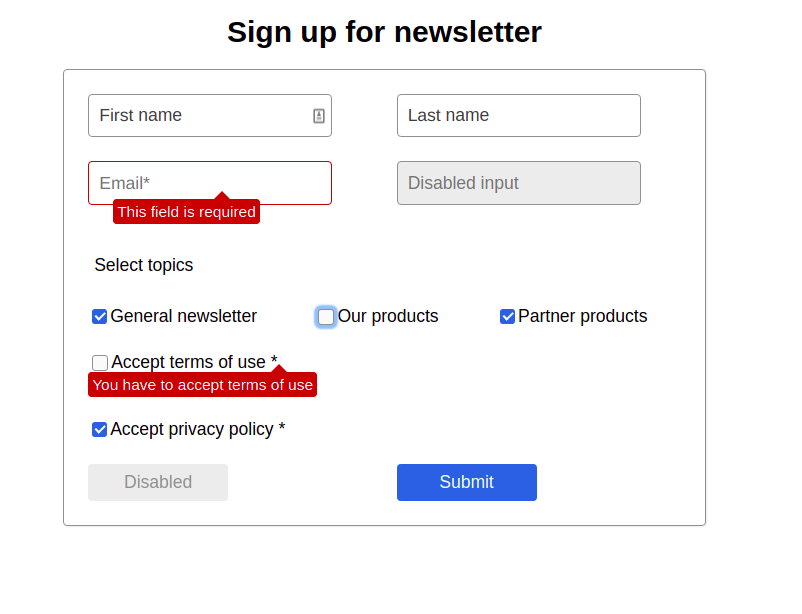
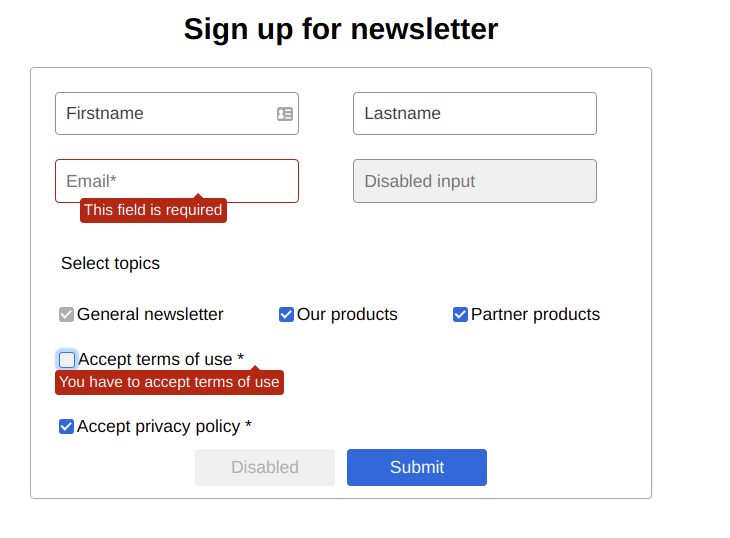
Small fixes

diff --git a/src/components/Checkbox/Checkbox.scss b/src/components/Checkbox/Checkbox.scss
@@ -1,50 +1,54 @@
 @import "../common.scss";
 
 [type="checkbox"] {
-    appearance: none;
-    -moz-appearance: none;
-    -webkit-appearance: none;
-    background-color: #fafafa;
-    border: 1.5px solid $darkGray;
-    padding: 6.5px;
-    border-radius: 3px;
-    display: inline-block;
-    position: relative;
-  }
-  
-  [type="checkbox"]:checked {
-    background-color: $blue;
-    border: none;
-    color: #99a1a7;
-    padding: 7.5px;
-  }
-  
-  [type="checkbox"]:checked:active {
-    background-color: $navyBlue;
-  }
-  
-  [type="checkbox"]:hover {
-    opacity: 90%;
-    cursor: pointer;
-  }
-  
-  [type="checkbox"]:not(:checked):hover {
-    background-color: $lightGray;
-    border-color: $blue;
-  }
-  
-  [type="checkbox"]:checked:after {
-    content: "";
-    font-size: 14px;
-    position: absolute;
-    top: 0px;
-    left: 3px;
-    color: #99a1a7;
-    display: inline-block;
-    transform: rotate(45deg);
-    margin: 10% 10%;
-    height: 8px;
-    width: 4px;
-    border-bottom: 0.12rem solid $white;
-    border-right: 0.12rem solid $white;
-  }
+  appearance: none;
+  -moz-appearance: none;
+  -webkit-appearance: none;
+  background-color: #fafafa;
+  border: 1.5px solid $darkGray;
+  padding: 6.5px;
+  border-radius: 3px;
+  display: inline-block;
+  position: relative;
+}
+
+[type="checkbox"]:checked {
+  background-color: $blue;
+  border: none;
+  color: #99a1a7;
+  padding: 7.5px;
+}
+
+[type="checkbox"]:checked:active {
+  background-color: $navyBlue;
+}
+
+[type="checkbox"]:hover {
+  opacity: 90%;
+  cursor: pointer;
+}
+
+[type="checkbox"]:not(:checked):hover {
+  background-color: $lightGray;
+  border-color: $blue;
+}
+
+[type="checkbox"]:checked:after {
+  content: "";
+  font-size: 14px;
+  position: absolute;
+  top: 0px;
+  left: 3px;
+  color: #99a1a7;
+  display: inline-block;
+  transform: rotate(45deg);
+  margin: 10% 10%;
+  height: 8px;
+  width: 4px;
+  border-bottom: 0.12rem solid $white;
+  border-right: 0.12rem solid $white;
+}
+
+[type="checkbox"]:disabled {
+  background-color: $darkGray;
+}

diff --git a/src/components/Snackbar/Snackbar.js b/src/components/Snackbar/Snackbar.js
@@ -6,27 +6,27 @@ const Snackbar = ({ type, message, setNotification }) => {
   switch (type) {
     case "error":
       messageStyle = {
-        border: "1px solid #8c161a",
-        backgroundColor: "#fdf2f2",
+        border: "1px solid #bf0100",
+        backgroundColor: "#fff3f2",
       };
       break;
-    case "info":
+    case "success":
+      messageStyle = {
+        border: "1px solid #129939",
+        backgroundColor: "#e9fff0",
+      };
+      break;
+    default:
       messageStyle = {
         border: "1px solid #3b86d1",
         backgroundColor: "#e6f2ff",
       };
       break;
-    default:
-      messageStyle = {
-        border: "1px solid #129939",
-        backgroundColor: "#dcf7e2",
-      };
-      break;
   }
 
   const handleClose = () => {
-    setNotification(null)
-  }
+    setNotification(null);
+  };
 
   return (
     <div style={messageStyle} className="snackbar">

diff --git a/src/components/Snackbar/Snackbar.scss b/src/components/Snackbar/Snackbar.scss
@@ -2,13 +2,24 @@
 
 $closebuttonSize: 20px;
 
+.snackbar {
+  width: 50vw;
+  position: fixed;
+  bottom: 20px;
+  padding: 1.2rem;
+  border-radius: 5px;
+  border-left-width: 4px !important;
+  font-size: 0.875rem;
+  box-shadow: 0 0 8px 4px #f0f0f050;
+}
+
 .close-btn {
   cursor: pointer;
   width: $closebuttonSize;
   height: $closebuttonSize;
   background-color: transparent;
   position: absolute;
-  top: 0.575rem;
+  top: 0.475rem;
   right: 0.875rem;
   border-radius: 6px;
   margin-left: auto;
@@ -45,14 +56,4 @@ $closebuttonSize: 20px;
   -moz-transform: rotate(-45deg);
   transform: rotate(-45deg);
   right: 0.05 * $closebuttonSize;
-}
-
-.snackbar {
-  width: 50vw;
-  position: fixed;
-  bottom: 20px;
-  padding: 1rem;
-  border-radius: 5px;
-  border-left-width: 4px !important;
-  font-size: 0.875rem;
 }

diff --git a/src/components/common.scss b/src/components/common.scss
@@ -1,10 +1,10 @@
-$red: #b70808;
+$red: #bf0100;
 $white: #fafafa;
-$blue: #2579e2;
-$lightBlue: #98c6fa;
-$navyBlue: #093799;
-$lightGray: #ececec;
-$darkGray: #909090;
+$blue: #006fdd;
+$lightBlue: #aed6ff;
+$navyBlue: #0055aa;
+$lightGray: #f0f0f0;
+$darkGray: #aeaeae;
 $darkerGray: #646464;
 $spacing: 6px;
 $fieldPadding: 4px;
@@ -19,6 +19,12 @@ $breakpointDesktop: 1280px;
   position: relative;
   margin: 12px;
   margin-right: auto;
+}
+
+@media (max-width: $breakpointMobile) {
+  .field-container {
+    width: 100%;
+  }
 }
 
 .label-wrapper {
@@ -47,9 +53,9 @@ input:focus {
   position: absolute;
   width: 0;
   height: 0;
-  bottom: 70%;
+  bottom: 100%;
   right: 1.5em;
-  border: 0.75rem solid transparent;
+  border: 0.25rem solid transparent;
   border-top: none;
   border-bottom-color: $red;
 }

diff --git a/src/App.js b/src/App.js
@@ -10,7 +10,7 @@ function App() {
   const { register, handleSubmit, errors } = useForm();
   const [notification, setNotification] = useState({
     type: "info",
-    message: "Please fill all fields and submit the form",
+    message: "Please fill in all fields and submit the form",
   });
 
   const topics = ["General newsletter", "Our products", "Partner products"];
@@ -85,8 +85,8 @@ function App() {
           />
           <TextField
             disabled
-            placeholder="Disabled input"      
-            label="Disabled input"  
+            placeholder="Disabled input"
+            label="Disabled input"
           />
         </div>
         <div className="topics">

diff --git a/src/components/Button/Button.js b/src/components/Button/Button.js
@@ -3,7 +3,7 @@ import "./Button.scss";
 
 const Button = ({ type = "button", disabled, text }) => {
   return (
-    <div className="field-container">
+    
       <button
         aria-disabled={disabled}
         className="button"
@@ -12,7 +12,7 @@ const Button = ({ type = "button", disabled, text }) => {
       >
         {text}
       </button>
-    </div>
+   
   );
 };
 

diff --git a/src/components/Checkbox/Checkbox.js b/src/components/Checkbox/Checkbox.js
@@ -7,7 +7,7 @@ const Checkbox = ({ label, error, name, id, inputRef, required, ...props }) => {
       <div className="label-wrapper">
         <input
           aria-label={label}
-          aria-required={true}
+          aria-required={required}
           id={id}
           name={name}
           type="checkbox"

diff --git a/src/components/TextField/TextField.js b/src/components/TextField/TextField.js
@@ -15,7 +15,7 @@ const TextField = ({
     <div className="field-container">
       <div className="label-wrapper">
         <input
-          aria-required={true}
+          aria-required={required}
           aria-label={label}
           placeholder={`${placeholder}${required ? '*' : ''}`}
           style={

diff --git a/src/components/Button/Button.scss b/src/components/Button/Button.scss
@@ -8,6 +8,7 @@
   border-radius: $borderRadius;
   padding: 8px;
   font-size: 0.875rem;
+  margin: 0 $spacing;
 }
 
 .button:not(:disabled):hover {

diff --git a/src/components/TextField/TextField.scss b/src/components/TextField/TextField.scss
@@ -6,7 +6,7 @@
   margin-left: auto;
   color: #3f3f3f;
   font-size: 0.875rem;
-  max-width: 100%;
+  width: 100%;
 }
 
 .text-input:hover {

diff --git a/README.md b/README.md
@@ -11,7 +11,7 @@
 
 Here are the instructions to get the local development environment up and running. The instructions are for Windows but the steps for other environments should be similar.
 
-## 1. Clone the repository
+## Cloning the repository
 1. Ensure [Git](https://git-scm.com/downloads) and [Node.js](https://nodejs.org/en/) are installed.
 2. Open Git Bash in the directory where you want the project to be saved.
 3. Clone this repository with `git clone` using either HTTPS or SSH
